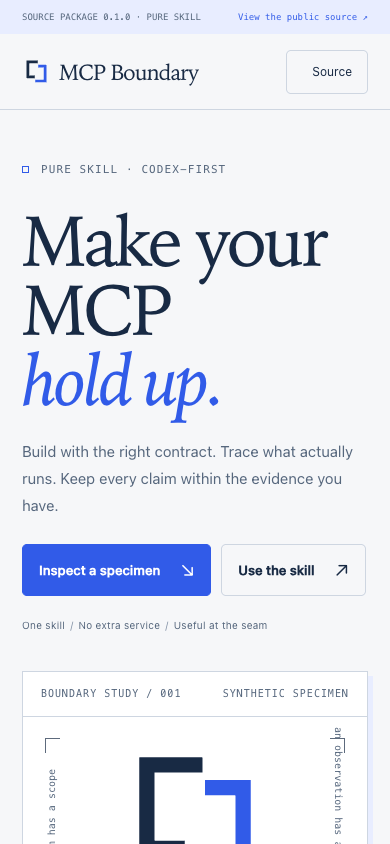
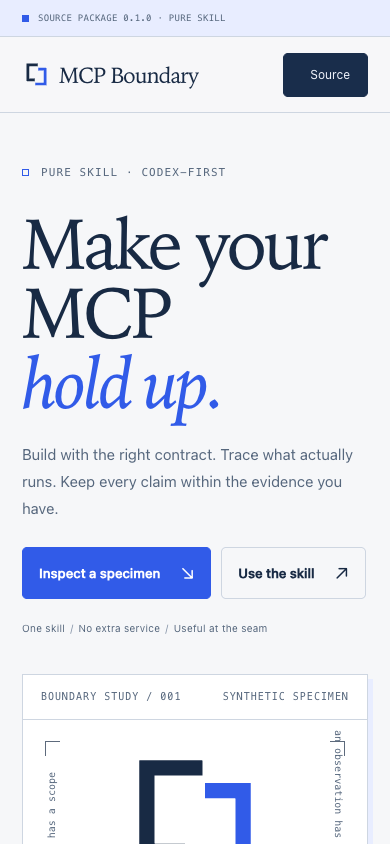
refine website header, ribbon, and footer presentation

diff --git a/site/styles.css b/site/styles.css
@@ -8,16 +8,22 @@
 .muted{color:var(--muted)}
 .mark{width:36px;height:36px;color:var(--ink);--mark-accent:var(--accent);flex:none}
 .mark svg{width:100%;height:100%}
-.site-header{border-bottom:1px solid var(--line);background:var(--bg);position:relative;z-index:4}
-.header-inner{display:flex;align-items:center;justify-content:space-between;min-height:88px;gap:32px}
+.site-header{border-bottom:1px solid var(--line);background:var(--bg);position:sticky;top:0;z-index:20}
+@supports(backdrop-filter:blur(1px)){.site-header{background:color-mix(in srgb,var(--bg) 86%,transparent);backdrop-filter:saturate(1.15) blur(14px);-webkit-backdrop-filter:saturate(1.15) blur(14px)}}
+.header-inner{display:flex;align-items:center;justify-content:space-between;min-height:84px;gap:32px}
 .brand-lockup{display:inline-flex;align-items:center;gap:11px}
 .wordmark{font:26px/1 var(--serif);letter-spacing:-1px;white-space:nowrap}
 .header-links{display:flex;align-items:center;gap:27px;font-size:13px}
-.header-links a{padding-block:11px}
+.header-links a{position:relative;padding-block:11px}
+.header-links a::after{content:"";position:absolute;left:0;right:0;bottom:6px;height:1px;background:var(--accent);transform:scaleX(0);transform-origin:left;transition:transform var(--ease)}
 .header-links a:hover{color:var(--accent)}
+.header-links a:hover::after{transform:scaleX(1)}
 .header-actions{display:flex;align-items:center;gap:18px}
-.small-button{display:inline-flex;align-items:center;justify-content:center;border:1px solid var(--line);background:transparent;border-radius:5px;min-height:44px;padding:8px 15px;font-size:12px;gap:10px}
-.small-button:hover{border-color:var(--ink);background:var(--panel)}
+.small-button{display:inline-flex;align-items:center;justify-content:center;border:1px solid var(--night);background:var(--night);color:var(--on-night);border-radius:5px;min-height:44px;padding:8px 17px;font-size:12px;gap:9px;transition:background var(--ease),border-color var(--ease),transform var(--ease)}
+.small-button svg{transition:transform var(--ease)}
+.small-button:hover{background:var(--accent);border-color:var(--accent);color:#fff;transform:translateY(-1px)}
+.small-button:hover svg{transform:translate(1.5px,-1.5px)}
+.small-button:active{transform:translateY(0)}
 .button{display:inline-flex;align-items:center;justify-content:center;gap:30px;min-height:50px;padding:12px 21px;border:1px solid var(--accent);border-radius:5px;background:var(--accent);color:#fff;font-size:13px;line-height:1.4;font-weight:550;transition:background var(--ease),transform var(--ease)}
 .button:hover{filter:brightness(.94);transform:translateY(-1px)}
 .button.secondary{background:transparent;border-color:var(--line);color:var(--ink)}
@@ -120,15 +126,26 @@
 .evidence-cell{border-top:1px solid var(--strong-line);padding-top:16px}
 .evidence-cell h3{font-size:12px;font-weight:550;margin-bottom:10px}
 .evidence-cell p{font-size:11px;color:var(--muted);margin-top:10px;line-height:1.75}
-.site-footer{padding:29px 0 33px}
+.site-footer{border-top:1px solid var(--line);background:var(--panel);padding:44px 0 38px}
 .footer-top{display:flex;justify-content:space-between;align-items:center;gap:30px}
-.footer-name{font:23px var(--serif);letter-spacing:-.6px}
-.footer-links{display:flex;gap:24px;flex-wrap:wrap;font-size:11px}
+.footer-brand{display:inline-flex;align-items:center;gap:12px}
+.footer-mark{width:27px;height:27px}
+.footer-name{font:24px/1 var(--serif);letter-spacing:-.6px}
+.footer-links{display:flex;gap:26px;flex-wrap:wrap;font-size:12px}
+.footer-links a{padding-block:6px}
 .footer-links a:hover{color:var(--accent)}
-.footer-bottom{display:flex;justify-content:space-between;gap:30px;margin-top:17px;font-size:10px;color:var(--muted)}
-.preview-ribbon{padding:10px 0;background:var(--soft);color:var(--muted);font:10px/1.6 var(--mono)}
-.preview-ribbon .wrap{display:flex;justify-content:space-between;gap:15px}
-.preview-ribbon a{color:var(--accent);white-space:nowrap}
+.footer-bottom{display:flex;justify-content:space-between;align-items:center;gap:30px;margin-top:30px;border-top:1px solid var(--line);padding-top:19px;font-size:11px;color:var(--muted)}
+.footer-credit{margin:0}
+.credit-names{color:var(--ink);font-family:var(--serif);font-style:italic;font-size:13px}
+.footer-assurances{display:flex;gap:22px;flex-wrap:wrap;margin:0}
+.footer-assurances span{display:inline-flex;align-items:center;gap:8px;font:9px/1.5 var(--mono);letter-spacing:.09em;text-transform:uppercase;white-space:nowrap}
+.footer-assurances span::before{content:"";width:6px;height:6px;border:1px solid var(--accent);flex:none}
+.preview-ribbon{padding:11px 0;background:var(--soft);border-bottom:1px solid var(--line);color:var(--muted);font:10px/1.6 var(--mono);letter-spacing:.08em}
+.preview-ribbon .wrap{display:flex;justify-content:space-between;align-items:center;gap:15px}
+.ribbon-status{display:inline-flex;align-items:center;gap:9px}
+.ribbon-status::before{content:"";width:7px;height:7px;background:var(--accent);flex:none}
+.preview-ribbon a{color:var(--accent);white-space:nowrap;border-bottom:1px solid transparent;transition:border-color var(--ease)}
+.preview-ribbon a:hover{border-bottom-color:var(--accent)}
 /* Native clipboard fallback */
 dialog{color:var(--ink);border:1px solid var(--line);background:var(--panel);border-radius:10px;padding:0;width:min(620px,calc(100% - 32px));max-height:calc(100dvh - 40px);box-shadow:0 24px 100px #172B4538}dialog::backdrop{background:#101D3560;backdrop-filter:blur(3px)}
 .dialog-inner{padding:30px}
@@ -181,7 +198,8 @@ dialog{color:var(--ink);border:1px solid var(--line);background:var(--panel);bor
 .brand-lockup .mark{width:29px;height:29px}
 .header-actions{gap:9px}
 .header-actions>.text-link{display:none}
-.preview-ribbon{font-size:9px}
+.preview-ribbon{font-size:9px;letter-spacing:.03em}
+.preview-ribbon a{display:none}
 .hero{grid-template-columns:1fr;padding-block:44px 45px;gap:37px}
 .hero h1{font-size:71px;letter-spacing:-3.2px;margin-top:25px}
 .hero-lede{margin-top:23px;max-width:430px;font-size:15px}
@@ -239,10 +257,10 @@ dialog{color:var(--ink);border:1px solid var(--line);background:var(--panel);bor
 .evidence-cell p{grid-column:1/-1;margin-top:6px}
 .evidence-cell .state{justify-self:end;font-size:10px}
 .footer-top{align-items:start;gap:20px}
-.footer-links{display:block;font-size:10px}
+.footer-links{display:block;font-size:11px}
 .footer-links a{display:block;padding:4px 0}
-.footer-bottom{font-size:9px;gap:20px}
-.footer-bottom p:first-child{max-width:230px}
+.footer-bottom{flex-direction:column;align-items:flex-start;gap:11px;font-size:10px;margin-top:24px}
+.footer-assurances{gap:14px}
 .footer-name{font-size:22px}
 .dialog-inner{padding:23px}
 .dialog-heading h2{font-size:29px}

diff --git a/site/index.html b/site/index.html
@@ -14,7 +14,7 @@
 </head>
 <body>
 <a href="#main" class="skip">Skip to content</a>
-<div class="preview-ribbon"><div class="wrap"><span>SOURCE PACKAGE 0.1.0 · PURE SKILL</span><a href="https://github.com/IndelibleVivi/mcp-boundary" target="_blank" rel="noopener noreferrer">View the public source ↗</a></div></div>
+<div class="preview-ribbon"><div class="wrap"><span class="ribbon-status">SOURCE PACKAGE 0.1.0 · PURE SKILL</span><a href="https://github.com/IndelibleVivi/mcp-boundary" target="_blank" rel="noopener noreferrer">View the public source ↗</a></div></div>
 <header class="site-header"><div class="wrap header-inner">
 <a class="brand-lockup" href="./index.html" aria-label="MCP Boundary home"><span class="mark" data-mark><svg viewBox="0 0 64 64" aria-hidden="true"><path d="M35 11H13V44H28" fill="none" stroke="currentColor" stroke-width="6"/><path d="M29 53H51V20H36" fill="none" stroke="#315BE8" stroke-width="6"/></svg></span><span class="wordmark">MCP Boundary</span></a>
 <nav class="header-links" aria-label="Main navigation"><a href="#in-practice">In practice</a><a href="#method">The method</a><a href="#workflows">Workflows</a></nav>
@@ -55,7 +55,7 @@ host:   no recorded observation</pre><p class="case-input-note" id="case-note">A
 codex plugin add mcp-boundary@mcp-boundary</pre></div><div><div class="prompt-box"><div class="prompt-tabs" role="group" aria-label="Workflow prompt"><button class="prompt-tab" data-prompt="inspect" aria-pressed="true">Inspect</button><button class="prompt-tab" data-prompt="build" aria-pressed="false">Build</button><button class="prompt-tab" data-prompt="migrate" aria-pressed="false">Migrate</button><button class="prompt-tab" data-prompt="host" aria-pressed="false">Host debug</button></div><p class="prompt-text" id="prompt-text">Use $mcp-boundary to inspect this MCP implementation against its declared protocol, actual transport and intended deployment. Trace the relevant behavior. Report actionable findings, valid results and any material verification gaps. Do not edit the repository.</p><div class="prompt-bottom"><span class="micro">Prompt template / installed plugin required</span><button id="copy-prompt">Copy prompt <span aria-hidden="true">↗</span></button></div></div><p class="prompt-disclaimer">Installing from source is separate from directory publication. The plugin adds one skill and no service, auth flow, telemetry or runtime dependency.</p></div></div></section>
 <section class="evidence-section" id="status" aria-labelledby="status-heading"><div class="wrap"><div class="evidence-heading"><h2 id="status-heading">The status is part of the design.</h2><p>Version 0.1.0 / explicitly bounded</p></div><div class="evidence-grid"><div class="evidence-cell"><h3>Source & Codex-native package</h3><span class="state observed">included</span><p>Author source, canonical Codex manifest, provenance, legal map, tests and one approved website are included in the repository.</p></div><div class="evidence-cell"><h3>Installed model behavior</h3><span class="state unknown">not verified</span><p>Static trigger design and fixtures do not establish implicit model invocation or comparative behavior.</p></div><div class="evidence-cell"><h3>Directory & named-host release</h3><span class="state unknown">not published</span><p>No external directory listing, production integration or named-host acceptance is implied.</p></div></div></div></section>
 </main>
-<footer class="site-footer"><div class="wrap"><div class="footer-top"><span class="footer-name">MCP Boundary</span><nav class="footer-links" aria-label="Footer"><a href="https://github.com/IndelibleVivi/mcp-boundary" target="_blank" rel="noopener noreferrer">Source ↗</a><a href="https://github.com/IndelibleVivi/mcp-boundary/blob/main/LICENSING.md" target="_blank" rel="noopener noreferrer">Licensing ↗</a><a href="https://github.com/IndelibleVivi/mcp-server-engineering-field-guide" target="_blank" rel="noopener noreferrer">Method source ↗</a></nav></div><div class="footer-bottom"><p>Designed with Faye & Cove. Engineering aid, not a compliance certificate.</p><p>No analytics · No external runtime assets</p></div></div></footer>
+<footer class="site-footer"><div class="wrap"><div class="footer-top"><div class="footer-brand"><span class="mark footer-mark" data-mark aria-hidden="true"></span><span class="footer-name">MCP Boundary</span></div><nav class="footer-links" aria-label="Footer"><a href="https://github.com/IndelibleVivi/mcp-boundary" target="_blank" rel="noopener noreferrer">Source ↗</a><a href="https://github.com/IndelibleVivi/mcp-boundary/blob/main/LICENSING.md" target="_blank" rel="noopener noreferrer">Licensing ↗</a><a href="https://github.com/IndelibleVivi/mcp-server-engineering-field-guide" target="_blank" rel="noopener noreferrer">Method source ↗</a></nav></div><div class="footer-bottom"><p class="footer-credit">Designed with <span class="credit-names">Faye &amp; Cove</span>. Engineering aid, not a compliance certificate.</p><p class="footer-assurances"><span>No analytics</span><span>No external runtime assets</span></p></div></div></footer>
 <dialog id="copy-dialog" aria-labelledby="copy-title"><div class="dialog-inner"><div class="dialog-heading"><h2 id="copy-title">Copy manually</h2><button class="dialog-close" data-close-dialog aria-label="Close copy dialog">×</button></div><p class="dialog-caption">This browser did not allow clipboard access. Select the text below and use your normal copy command.</p><textarea class="fallback-copy" id="copy-fallback" readonly aria-label="Text to copy"></textarea></div></dialog>
 <div class="toast" id="toast" role="status" aria-live="polite"></div>
 <noscript><p class="noscript">The page is readable without JavaScript. Case switching and clipboard helpers need JavaScript.</p></noscript>
